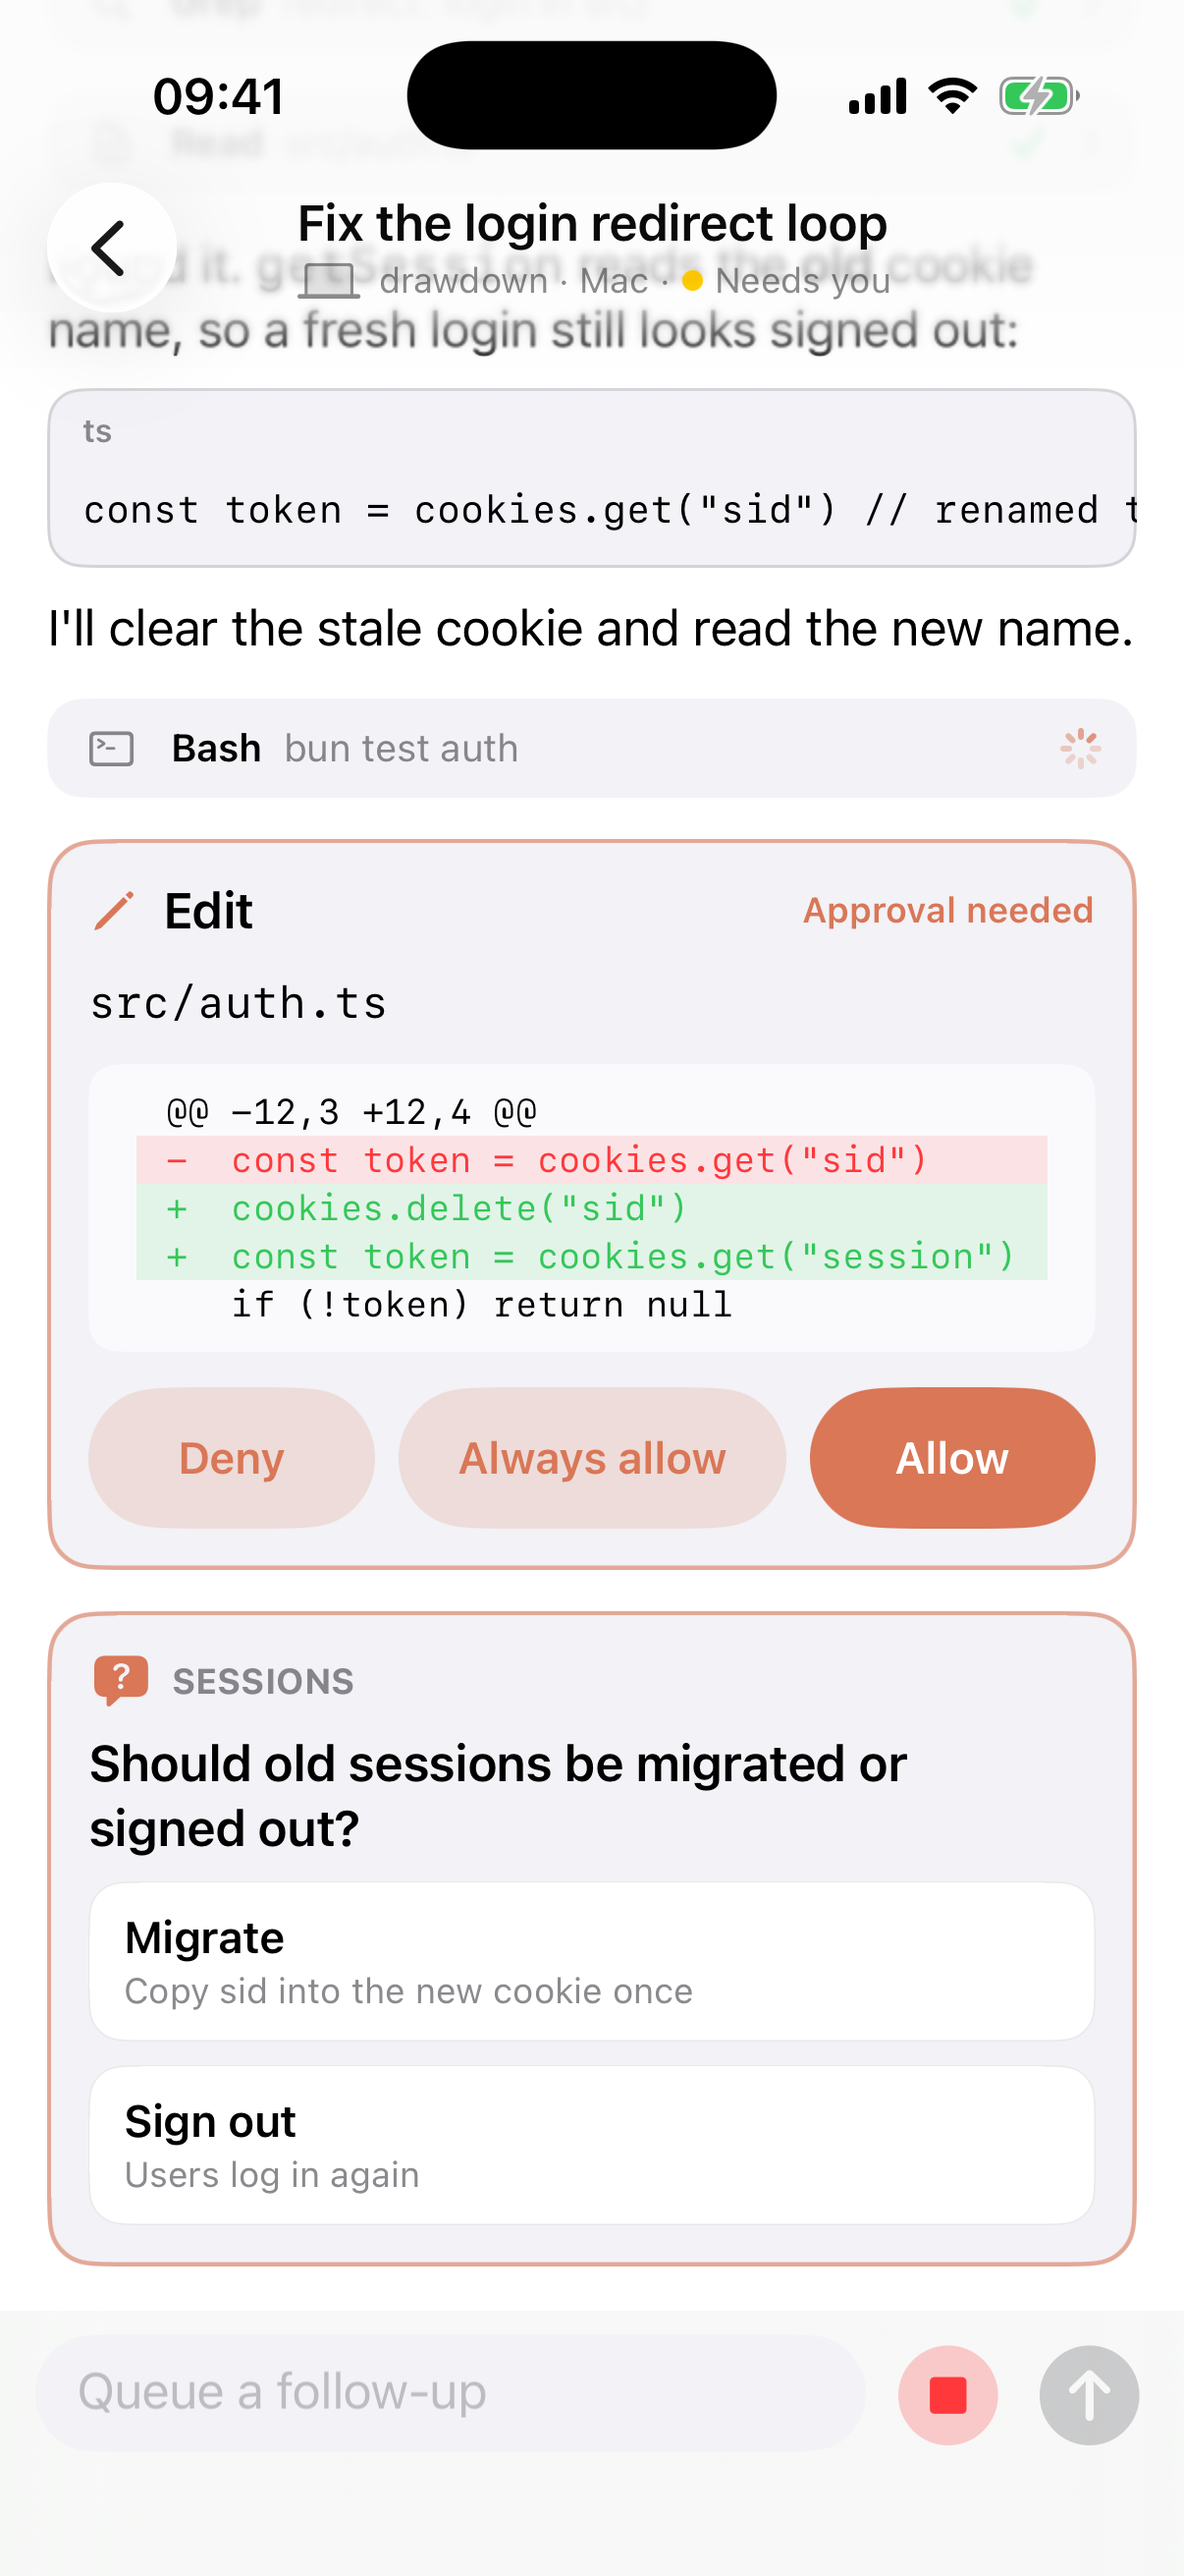
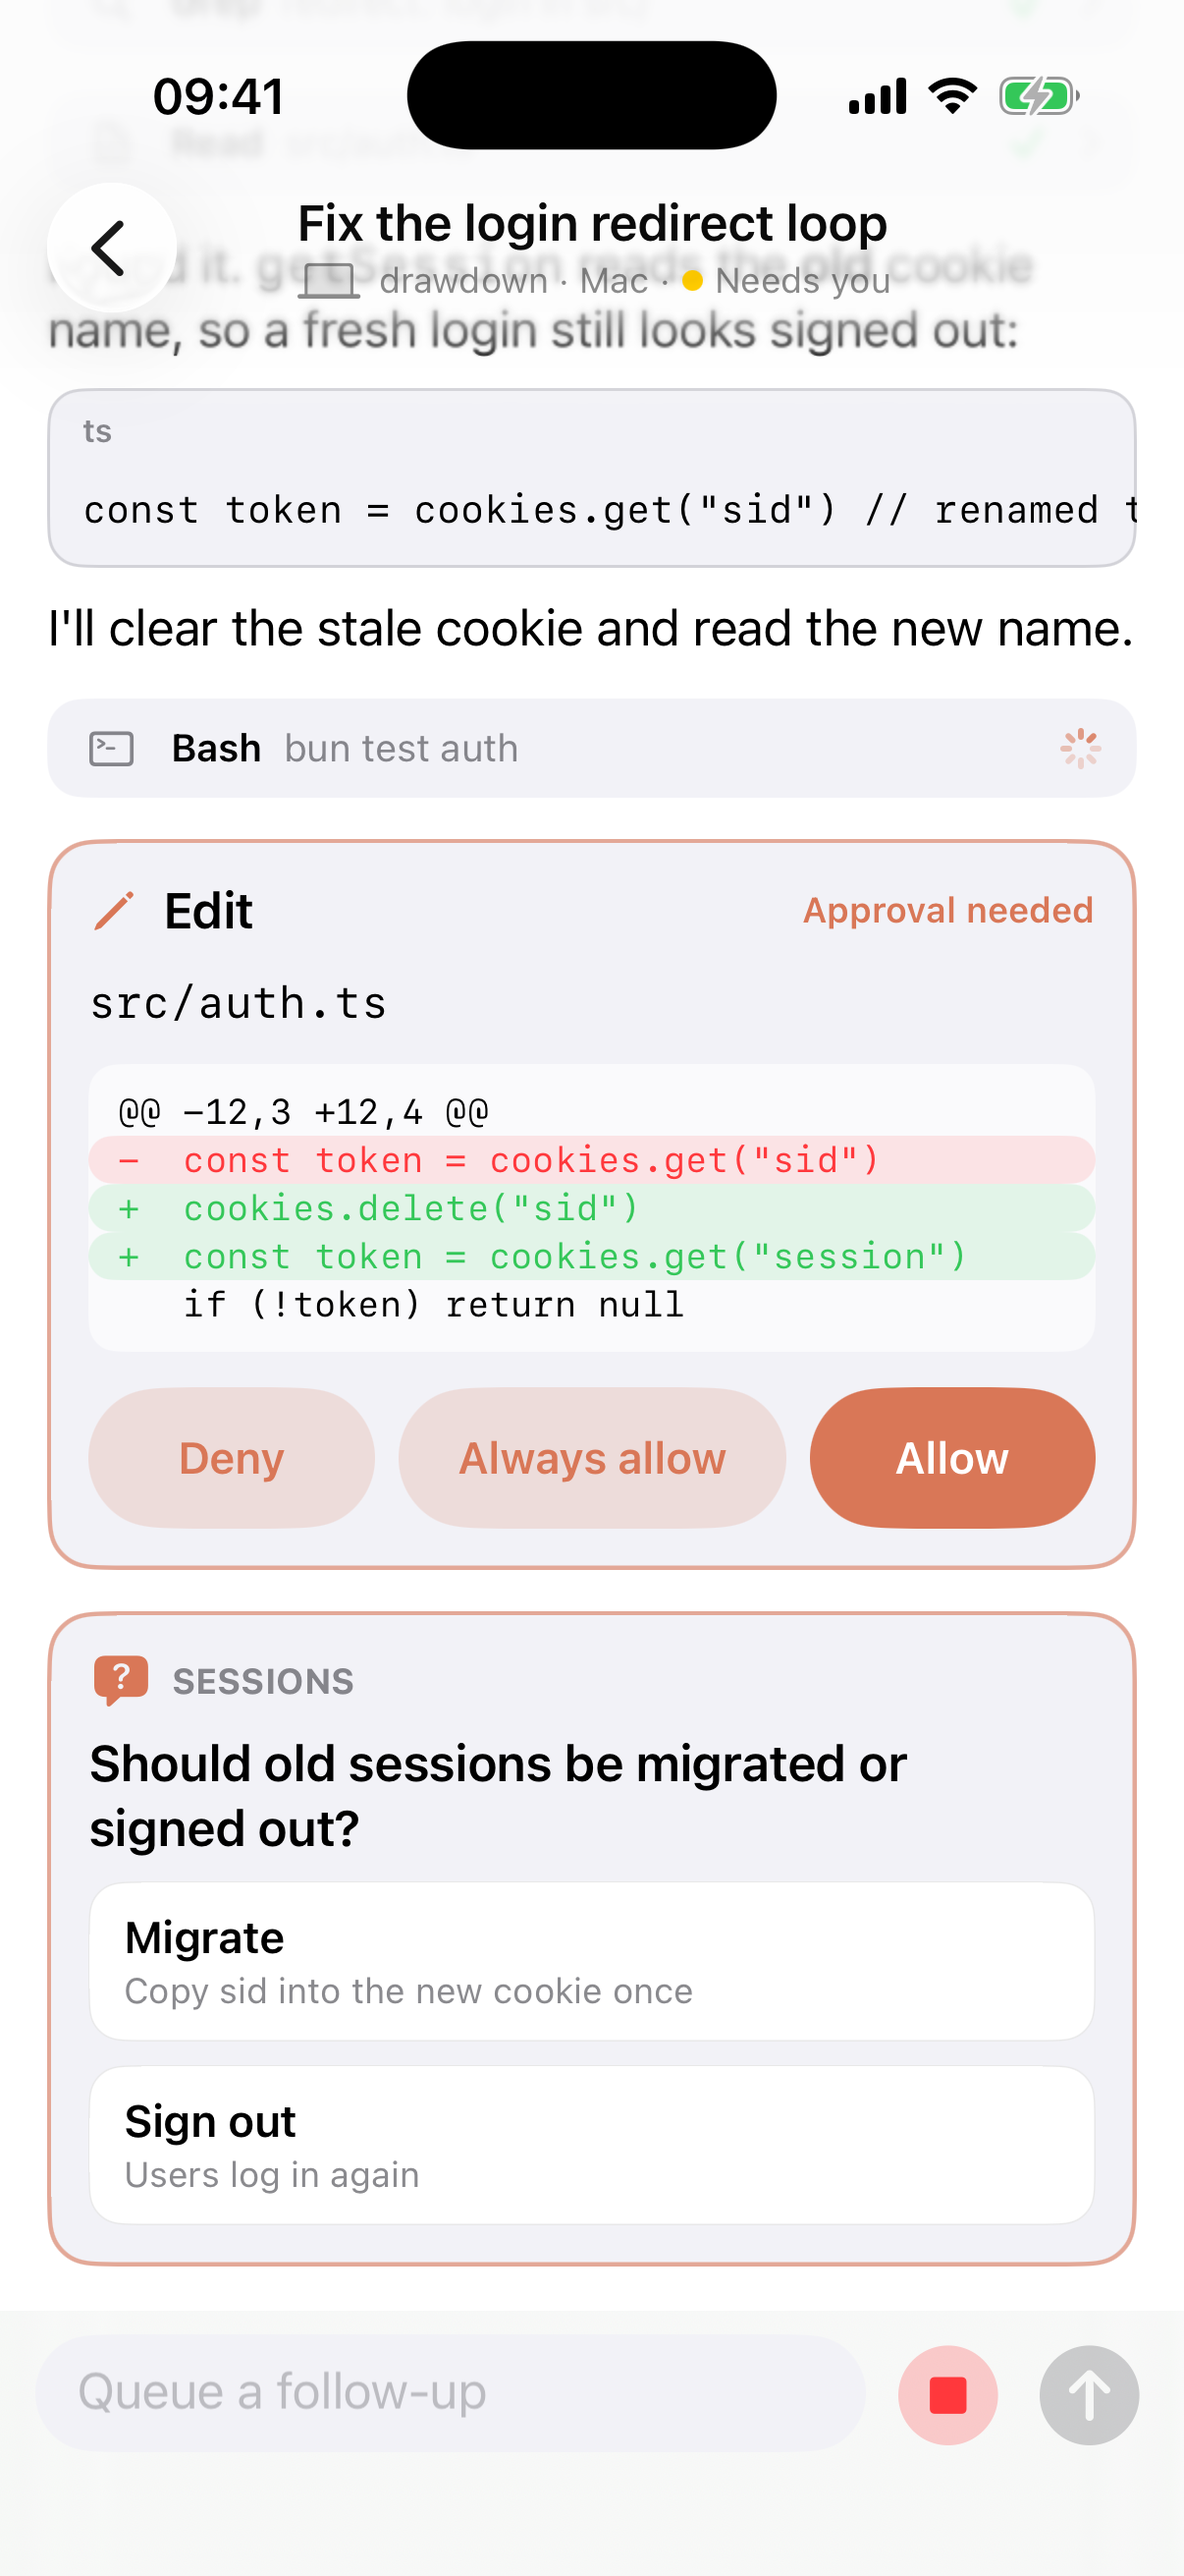
Left-align the approval diff box and keep it full width
The horizontal scroll view centered content narrower than the box.

Changed region(s): [[0.1534, 0.4325, 0.8284, 0.5252]]

diff --git a/ios/ClaudeBot/Views/TranscriptItems.swift b/ios/ClaudeBot/Views/TranscriptItems.swift
@@ -99,6 +99,7 @@ struct ToolRow: View {
 
 struct DiffView: View {
     let text: String
+    @State private var viewportWidth: CGFloat = 0
 
     var body: some View {
         ScrollView([.horizontal, .vertical], showsIndicators: false) {
@@ -107,6 +108,8 @@ struct DiffView: View {
                     Text(line.isEmpty ? " " : String(line))
                         .font(.system(.caption, design: .monospaced))
                         .foregroundStyle(Self.color(line))
+                        .lineLimit(1)
+                        .fixedSize()
                         .padding(.horizontal, 10)
                         .padding(.vertical, 1)
                         .frame(maxWidth: .infinity, alignment: .leading)
@@ -114,8 +117,10 @@ struct DiffView: View {
                 }
             }
             .padding(.vertical, 8)
+            .frame(minWidth: viewportWidth, alignment: .leading)
         }
-        .frame(maxHeight: 260)
+        .onGeometryChange(for: CGFloat.self, of: { $0.size.width }) { viewportWidth = $0 }
+        .frame(maxWidth: .infinity, maxHeight: 260, alignment: .leading)
         .fixedSize(horizontal: false, vertical: true)
         .background(Color(.systemBackground).opacity(0.6), in: RoundedRectangle(cornerRadius: 10, style: .continuous))
     }
